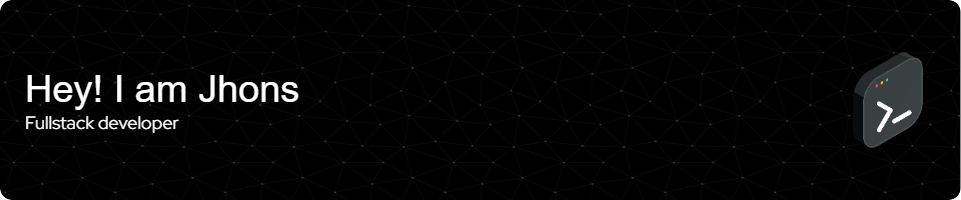
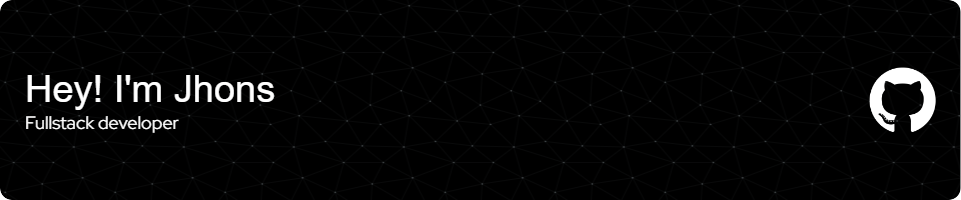
Updated

Changed region(s): [[0.8741, 0.27, 0.999, 0.75], [0.1249, 0.36, 0.3122, 0.51]]

diff --git a/README.md b/README.md
@@ -1,7 +1,5 @@
 ![Header](./assets/github-header-image.png)
 
-<img src="https://komarev.com/ghpvc/?username=codespace21&style=flat-square&color=blue" alt="" />
-
-<div id="header" align="center">
-  <img src="./assets/octocat.png" width="150"/>
+<div id="header" align="end">
+  <img src="https://komarev.com/ghpvc/?username=codespace21&style=flat-square&color=blue" alt="" />
 </div>
